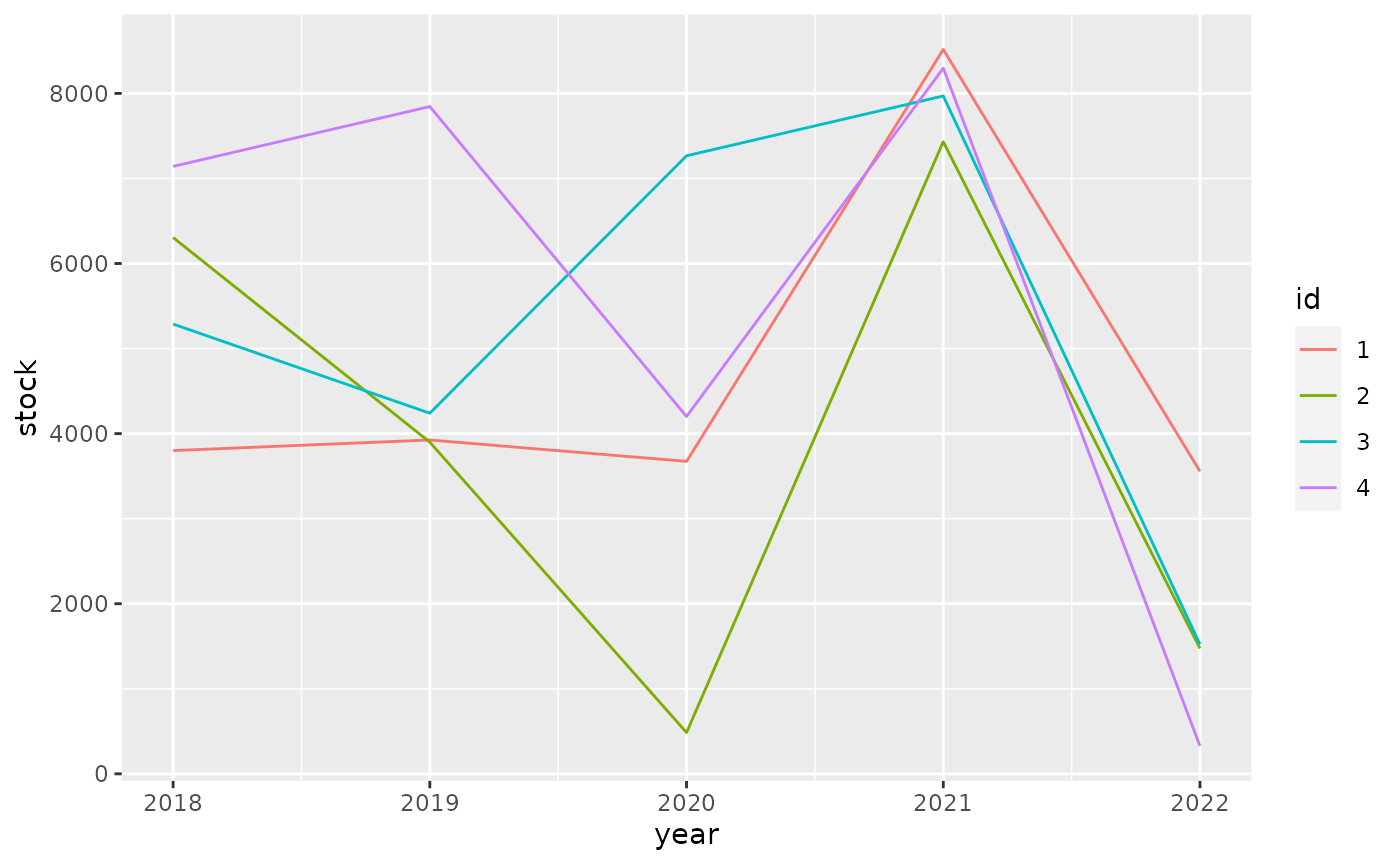
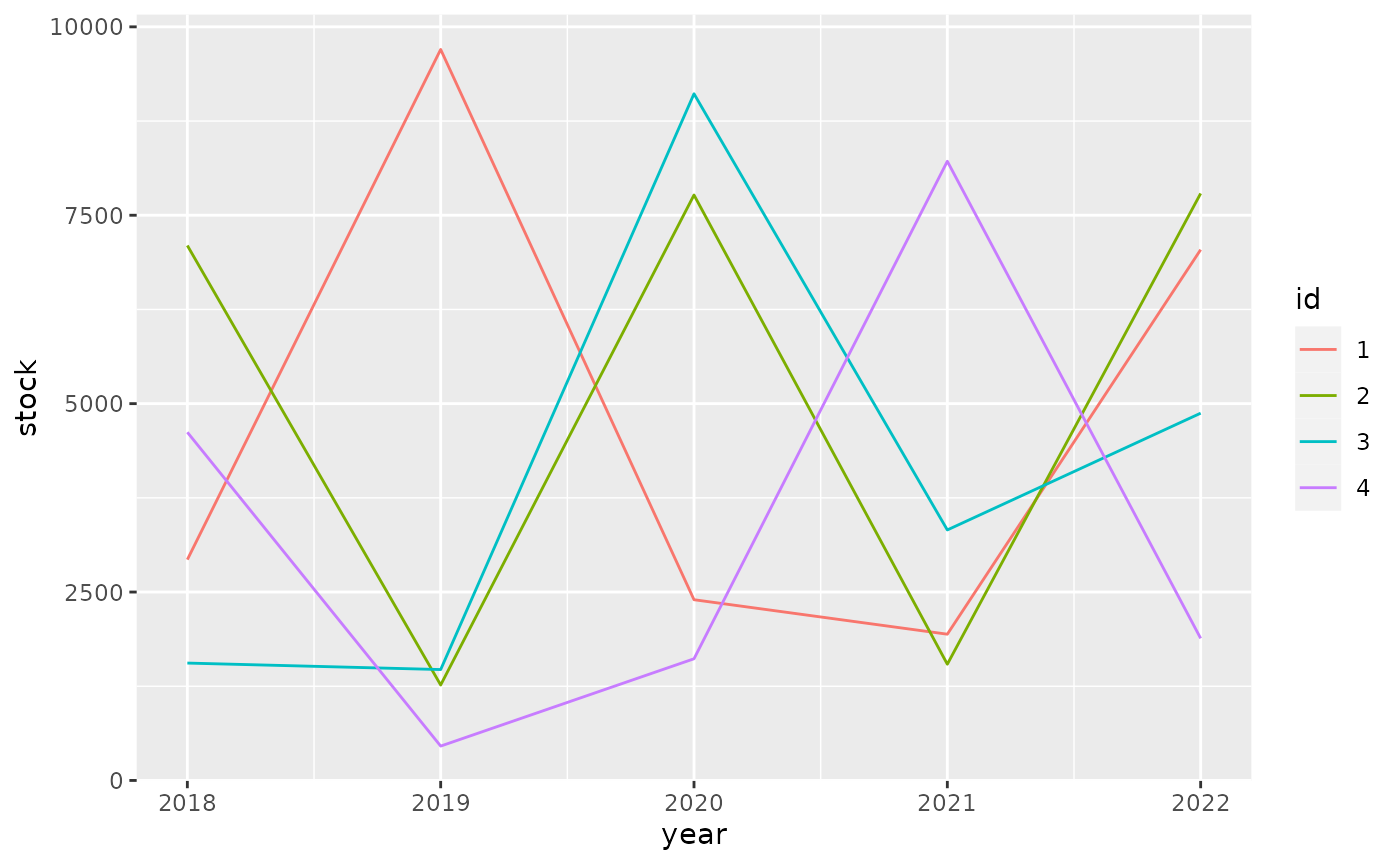
Built site for tibble: 3.1.6.9000@d070f6c

diff --git a/dev/articles/formats.html b/dev/articles/formats.html
@@ -227,10 +227,10 @@
 <span class="co">#&gt; <span style="color: #949494;"># A tibble: 4 × 6</span></span>
 <span class="co">#&gt;   id       `2018`    `2019`    `2020`    `2021`    `2022`</span>
 <span class="co">#&gt;   <span style="color: #949494; font-style: italic;">&lt;fct&gt;</span> <span style="color: #949494; font-style: italic;">&lt;dbl:fmt&gt;</span> <span style="color: #949494; font-style: italic;">&lt;dbl:fmt&gt;</span> <span style="color: #949494; font-style: italic;">&lt;dbl:fmt&gt;</span> <span style="color: #949494; font-style: italic;">&lt;dbl:fmt&gt;</span> <span style="color: #949494; font-style: italic;">&lt;dbl:fmt&gt;</span></span>
-<span class="co">#&gt; <span style="color: #BCBCBC;">1</span> 1     $3,800.51 $3,925.28 $3,673.85 $8,516.96 $3,555.93</span>
-<span class="co">#&gt; <span style="color: #BCBCBC;">2</span> 2     $6,305.66 $3,899.52   $485.23 $7,432.00 $1,473.80</span>
-<span class="co">#&gt; <span style="color: #BCBCBC;">3</span> 3     $5,288.19 $4,240.34 $7,266.73 $7,969.79 $1,522.31</span>
-<span class="co">#&gt; <span style="color: #BCBCBC;">4</span> 4     $7,141.98 $7,845.30 $4,201.03 $8,296.44   $326.33</span></code></pre></div>
+<span class="co">#&gt; <span style="color: #BCBCBC;">1</span> 1     $2,930.09 $9,700.11 $2,398.21 $1,940.62 $7,043.19</span>
+<span class="co">#&gt; <span style="color: #BCBCBC;">2</span> 2     $7,098.57 $1,266.76 $7,768.56 $1,542.49 $7,789.30</span>
+<span class="co">#&gt; <span style="color: #BCBCBC;">3</span> 3     $1,557.46 $1,471.47 $9,111.85 $3,324.10 $4,873.39</span>
+<span class="co">#&gt; <span style="color: #BCBCBC;">4</span> 4     $4,620.51   $456.00 $1,614.53 $8,216.19 $1,885.37</span></code></pre></div>
 <p>For ggplot2 we need to do <a href="https://github.com/tidyverse/ggplot2/pull/4065" class="external-link">some work</a> to show apply the formatting to the scales.</p>
 <div class="sourceCode" id="cb6"><pre class="downlit sourceCode r">
 <code class="sourceCode R"><span class="kw"><a href="https://rdrr.io/r/base/library.html" class="external-link">library</a></span><span class="op">(</span><span class="va"><a href="https://ggplot2.tidyverse.org" class="external-link">ggplot2</a></span><span class="op">)</span>
@@ -241,10 +241,10 @@
   <span class="fu"><a href="https://ggplot2.tidyverse.org/reference/geom_path.html" class="external-link">geom_line</a></span><span class="op">(</span><span class="op">)</span></code></pre></div>
 <p><img src="formats_files/figure-html/unnamed-chunk-7-1.png" width="700"></p>
 <p>It pays off to specify formatting very early in the process. The diagram below shows the principal stages of data analysis and exploration from “R for data science”.</p>
-<div id="htmlwidget-561d2071ce0e90a38422" style="width:700px;height:432.632880098888px;" class="DiagrammeR html-widget"></div>
-<script type="application/json" data-for="htmlwidget-561d2071ce0e90a38422">{"x":{"diagram":"graph TD\n  Import --> Tidy\n  Tidy --> Transform\n  Transform --> Visualize\n  Visualize --> Communicate\n  Visualize --> Model\n  Model -.-> Transform"},"evals":[],"jsHooks":[]}</script><p>The subsequent diagram adds data formats, communication options, and explicit data formatting. The original r4ds transitions are highlighted in bold. There are two principal options where to apply formatting for results: right before communicating them, or right after importing.</p>
-<div id="htmlwidget-4b67db37fb53be2d72c7" style="width:700px;height:432.632880098888px;" class="DiagrammeR html-widget"></div>
-<script type="application/json" data-for="htmlwidget-4b67db37fb53be2d72c7">{"x":{"diagram":"graph TD\n  .csv --> Import\n  API --> Import\n  DBI --> Import\n  dbplyr --> Import\n  Import -.-> Format[Format for analysis]\n  Format -.-> Tidy\n\n  subgraph r4ds\n  Import ==> Tidy\n  Tidy ==> Transform\n  Transform ==> Visualize\n  Visualize ==> Model\n  Model -.-> Transform\n  Visualize ==> Communicate\n  end\n\n  Visualize -.-> FormatComm[Format for communication]\n  FormatComm -.-> Communicate\n\n  FormatComm -- Apply formatting early --> Format\n\n  dbplyr -.-> Tidy\n  dbplyr -.-> Transform\n  dbplyr -.-> Visualize\n\n  Communicate --> gt\n  Communicate --> ggplot2\n  Communicate --> DT\n  Communicate --> plotly"},"evals":[],"jsHooks":[]}</script><p>Applying formatting early in the process gives the added benefit of showing the data in a useful format during the “Tidy”, “Transform”, and “Visualize” stages. For this to be useful, we need to ensure that the formatting options applied early:</p>
+<div id="htmlwidget-9b63d9a9543c73ab1024" style="width:700px;height:432.632880098888px;" class="DiagrammeR html-widget"></div>
+<script type="application/json" data-for="htmlwidget-9b63d9a9543c73ab1024">{"x":{"diagram":"graph TD\n  Import --> Tidy\n  Tidy --> Transform\n  Transform --> Visualize\n  Visualize --> Communicate\n  Visualize --> Model\n  Model -.-> Transform"},"evals":[],"jsHooks":[]}</script><p>The subsequent diagram adds data formats, communication options, and explicit data formatting. The original r4ds transitions are highlighted in bold. There are two principal options where to apply formatting for results: right before communicating them, or right after importing.</p>
+<div id="htmlwidget-82ea3cdb72c19a091c7f" style="width:700px;height:432.632880098888px;" class="DiagrammeR html-widget"></div>
+<script type="application/json" data-for="htmlwidget-82ea3cdb72c19a091c7f">{"x":{"diagram":"graph TD\n  .csv --> Import\n  API --> Import\n  DBI --> Import\n  dbplyr --> Import\n  Import -.-> Format[Format for analysis]\n  Format -.-> Tidy\n\n  subgraph r4ds\n  Import ==> Tidy\n  Tidy ==> Transform\n  Transform ==> Visualize\n  Visualize ==> Model\n  Model -.-> Transform\n  Visualize ==> Communicate\n  end\n\n  Visualize -.-> FormatComm[Format for communication]\n  FormatComm -.-> Communicate\n\n  FormatComm -- Apply formatting early --> Format\n\n  dbplyr -.-> Tidy\n  dbplyr -.-> Transform\n  dbplyr -.-> Visualize\n\n  Communicate --> gt\n  Communicate --> ggplot2\n  Communicate --> DT\n  Communicate --> plotly"},"evals":[],"jsHooks":[]}</script><p>Applying formatting early in the process gives the added benefit of showing the data in a useful format during the “Tidy”, “Transform”, and “Visualize” stages. For this to be useful, we need to ensure that the formatting options applied early:</p>
 <ul>
 <li>give a good user experience for analysis
 <ul>

diff --git a/dev/reference/tibble.html b/dev/reference/tibble.html
@@ -367,7 +367,7 @@ i.e. exactly how  the <code>...</code> argument is processed.</p></div>
 <span class="r-in">  a <span class="op">=</span> <span class="fl">1</span><span class="op">:</span><span class="fl">3</span>,</span>
 <span class="r-in">  b <span class="op">=</span> <span class="fu"><a href="https://rdrr.io/r/base/diag.html" class="external-link">diag</a></span><span class="op">(</span><span class="fl">3</span><span class="op">)</span>,</span>
 <span class="r-in">  c <span class="op">=</span> <span class="fu"><a href="https://rdrr.io/r/stats/cor.html" class="external-link">cor</a></span><span class="op">(</span><span class="va">trees</span><span class="op">)</span>,</span>
-<span class="r-in">  d <span class="op">=</span> <span class="va">Titanic</span><span class="op">[</span><span class="fl">1</span><span class="op">:</span><span class="fl">3</span>,,,<span class="op">]</span></span>
+<span class="r-in">  d <span class="op">=</span> <span class="va">Titanic</span><span class="op">[</span><span class="fl">1</span><span class="op">:</span><span class="fl">3</span>, , , <span class="op">]</span></span>
 <span class="r-in"><span class="op">)</span></span>
 <span class="r-out co"><span class="r-pr">#&gt;</span> <span style="color: #949494;"># A tibble: 3 × 4</span></span>
 <span class="r-out co"><span class="r-pr">#&gt;</span>       a b[,1]  [,2]  [,3] c[,"Girth"] [,"Height"] [,"Volume"]               d</span>
@@ -376,13 +376,7 @@ i.e. exactly how  the <code>...</code> argument is processed.</p></div>
 <span class="r-out co"><span class="r-pr">#&gt;</span> <span style="color: #BCBCBC;">2</span>     2     0     1     0       0.519       1           0.598             0 …</span>
 <span class="r-out co"><span class="r-pr">#&gt;</span> <span style="color: #BCBCBC;">3</span>     3     0     0     1       0.967       0.598       1                35 …</span>
 <span class="r-in"></span>
-<span class="r-in"><span class="co"># data can not contain POSIXlt columns, or tibbles or matrices</span></span>
-<span class="r-in"><span class="co"># with incompatible number of rows:</span></span>
-<span class="r-in"><span class="kw"><a href="https://rdrr.io/r/base/try.html" class="external-link">try</a></span><span class="op">(</span><span class="fu">tibble</span><span class="op">(</span>y <span class="op">=</span> <span class="fu"><a href="https://rdrr.io/r/base/strptime.html" class="external-link">strptime</a></span><span class="op">(</span><span class="st">"2000/01/01"</span>, <span class="st">"%x"</span><span class="op">)</span><span class="op">)</span><span class="op">)</span></span>
-<span class="r-out co"><span class="r-pr">#&gt;</span> <span style="color: #949494;"># A tibble: 1 × 1</span></span>
-<span class="r-out co"><span class="r-pr">#&gt;</span>   y     </span>
-<span class="r-out co"><span class="r-pr">#&gt;</span>   <span style="color: #949494; font-style: italic;">&lt;dttm&gt;</span></span>
-<span class="r-out co"><span class="r-pr">#&gt;</span> <span style="color: #BCBCBC;">1</span> <span style="color: #BB0000;">NA</span>    </span>
+<span class="r-in"><span class="co"># Data can not contain tibbles or matrices with incompatible number of rows:</span></span>
 <span class="r-in"><span class="kw"><a href="https://rdrr.io/r/base/try.html" class="external-link">try</a></span><span class="op">(</span><span class="fu">tibble</span><span class="op">(</span>a <span class="op">=</span> <span class="fl">1</span><span class="op">:</span><span class="fl">3</span>, b <span class="op">=</span> <span class="fu">tibble</span><span class="op">(</span>c <span class="op">=</span> <span class="fl">4</span><span class="op">:</span><span class="fl">7</span><span class="op">)</span><span class="op">)</span><span class="op">)</span></span>
 <span class="r-out co"><span class="r-pr">#&gt;</span> Error : Tibble columns must have compatible sizes.</span>
 <span class="r-out co"><span class="r-pr">#&gt;</span> * Size 3: Existing data.</span>
@@ -390,12 +384,14 @@ i.e. exactly how  the <code>...</code> argument is processed.</p></div>
 <span class="r-out co"><span class="r-pr">#&gt;</span> <span style="color: #0000BB;">ℹ</span> Only values of size one are recycled.</span>
 <span class="r-in"></span>
 <span class="r-in"><span class="co"># Use := to create columns with names that start with a dot:</span></span>
-<span class="r-in"><span class="fu">tibble</span><span class="op">(</span>.dotted <span class="op">=</span> <span class="fl">3</span><span class="op">)</span></span>
+<span class="r-in"><span class="fu">tibble</span><span class="op">(</span><span class="va">.dotted</span> <span class="op">:=</span> <span class="fl">3</span><span class="op">)</span></span>
 <span class="r-out co"><span class="r-pr">#&gt;</span> <span style="color: #949494;"># A tibble: 1 × 1</span></span>
 <span class="r-out co"><span class="r-pr">#&gt;</span>   .dotted</span>
 <span class="r-out co"><span class="r-pr">#&gt;</span>     <span style="color: #949494; font-style: italic;">&lt;dbl&gt;</span></span>
 <span class="r-out co"><span class="r-pr">#&gt;</span> <span style="color: #BCBCBC;">1</span>       3</span>
-<span class="r-in"><span class="fu">tibble</span><span class="op">(</span><span class="va">.dotted</span> <span class="op">:=</span> <span class="fl">3</span><span class="op">)</span></span>
+<span class="r-in"></span>
+<span class="r-in"><span class="co"># This also works, but might break in the future:</span></span>
+<span class="r-in"><span class="fu">tibble</span><span class="op">(</span>.dotted <span class="op">=</span> <span class="fl">3</span><span class="op">)</span></span>
 <span class="r-out co"><span class="r-pr">#&gt;</span> <span style="color: #949494;"># A tibble: 1 × 1</span></span>
 <span class="r-out co"><span class="r-pr">#&gt;</span>   .dotted</span>
 <span class="r-out co"><span class="r-pr">#&gt;</span>     <span style="color: #949494; font-style: italic;">&lt;dbl&gt;</span></span>

diff --git a/dev/articles/types.html b/dev/articles/types.html
@@ -358,7 +358,7 @@
 <span class="co">#&gt; $ factor        <span style="color: #949494; font-style: italic;">&lt;fct&gt;</span> A</span>
 <span class="co">#&gt; $ ordered       <span style="color: #949494; font-style: italic;">&lt;ord&gt;</span> a</span>
 <span class="co">#&gt; $ Date          <span style="color: #949494; font-style: italic;">&lt;date&gt;</span> 2021-12-29</span>
-<span class="co">#&gt; $ POSIXt        <span style="color: #949494; font-style: italic;">&lt;dttm&gt;</span> 2021-12-29 14:19:23</span>
+<span class="co">#&gt; $ POSIXt        <span style="color: #949494; font-style: italic;">&lt;dttm&gt;</span> 2021-12-29 14:41:38</span>
 <span class="co">#&gt; $ difftime      <span style="color: #949494; font-style: italic;">&lt;drtn&gt;</span> 1 secs</span>
 <span class="co">#&gt; $ hms           <span style="color: #949494; font-style: italic;">&lt;time&gt;</span> 00:00:01</span>
 <span class="co">#&gt; $ integer64     <span style="color: #949494; font-style: italic;">&lt;int64&gt;</span> 10000000000</span>
@@ -394,7 +394,7 @@
 <span class="co">#&gt;             "sym"</span>
 <span class="co">#&gt;         }, typeof(x))</span>
 <span class="co">#&gt; }</span>
-<span class="co">#&gt; &lt;bytecode: 0x56054198fc80&gt;</span>
+<span class="co">#&gt; &lt;bytecode: 0x561c2af2fb40&gt;</span>
 <span class="co">#&gt; &lt;environment: namespace:pillar&gt;</span></code></pre></div>
 </div>
   </div>
